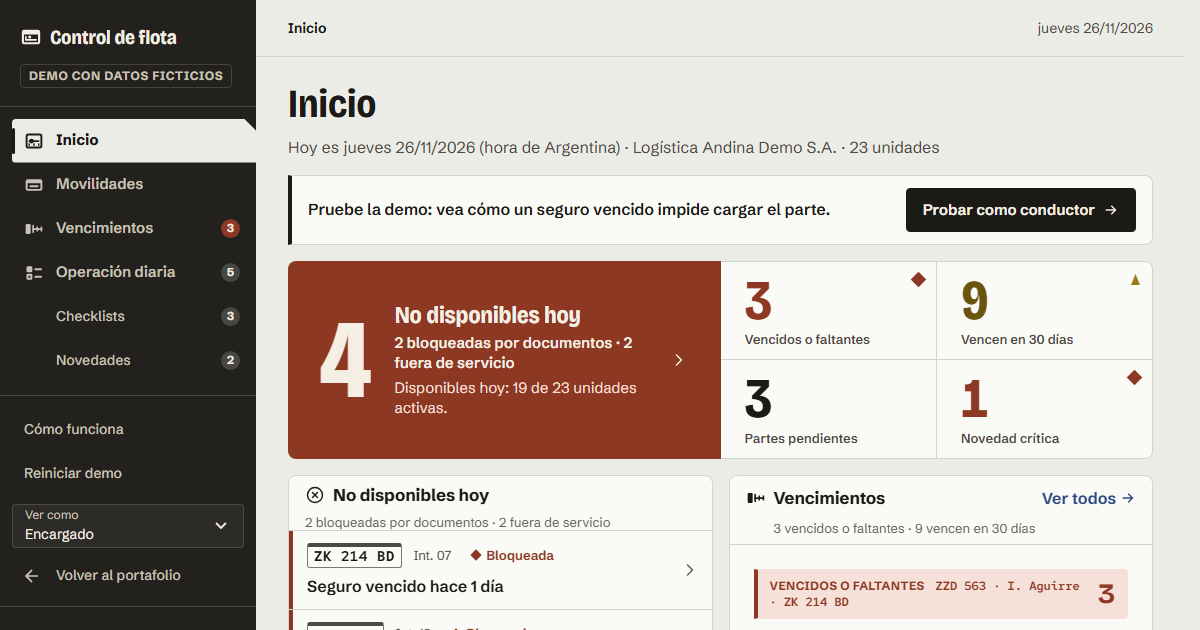
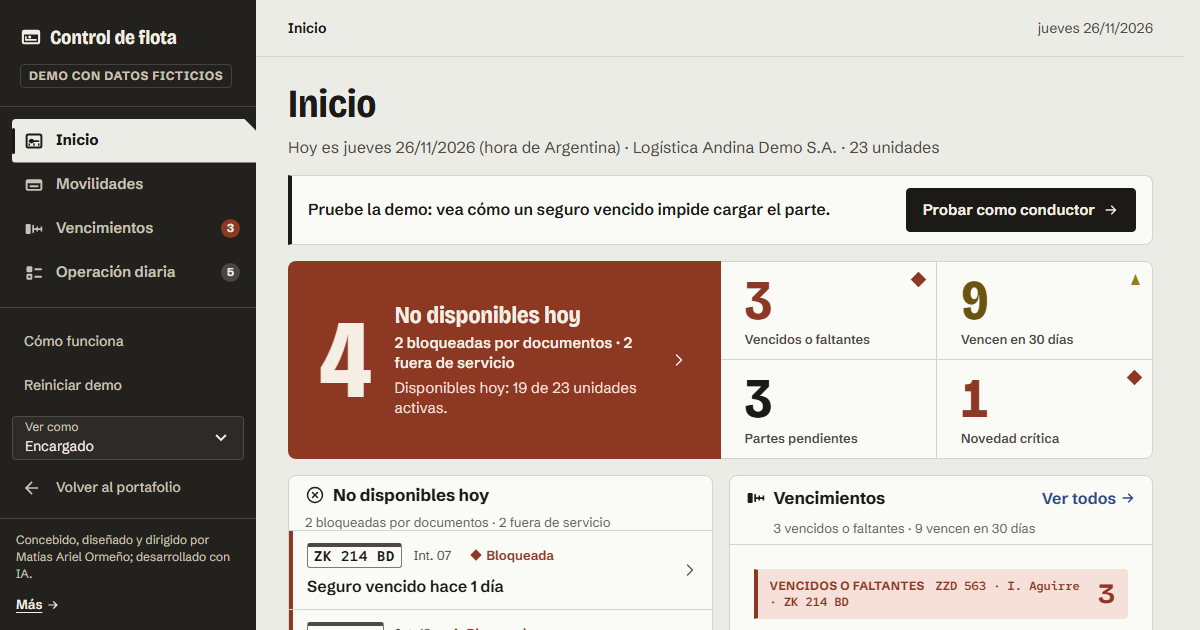
Operación diaria: una sola navegación, no tres
La crítica de reclutador marcó la navegación triplicada: el lateral, las
solapas y el título de la hoja decían lo mismo («Partes» y «Novedades»).

- Lateral: «Operación diaria» es una entrada sola, con la insignia del total.
  Las dos subentradas salen (y con ellas `subitems` y su estilo).
- Hoja bajo las solapas: la barra de título con el nombre de la solapa queda
  solo para lectores de pantalla (`Panel` con `tituloOculto`); el `h2` sigue
  nombrando la región. La solapa ya dice el nombre y la cuenta.
- Al resolver una novedad el foco vuelve a la solapa elegida (visible), no al
  título que ya no se ve.
- Las migas de escritorio no se tocan: son el camino de «Atrás».
- Capturas `docs/img/inicio.png` y `public/og-inicio.png` rehechas (mostraban
  el lateral desplegado con «Checklists»); cifras del README y registro.

Peso del JS inicial: 116.712 B a 116.489 B (tope 120.000 B).

diff --git a/src/componentes/Lateral.svelte b/src/componentes/Lateral.svelte
@@ -1,5 +1,5 @@
 <script lang="ts">
-  // Lateral oscuro del escritorio (64 rem o más): marca y rótulo «Demo», los destinos (con Operación diaria desplegada en Partes y Novedades),
+  // Lateral oscuro del escritorio (64 rem o más): marca y rótulo «Demo», los destinos (Operación diaria es uno solo: sus solapas, Partes y Novedades, se eligen dentro de la pantalla)
   // y abajo «Cómo funciona», «Reiniciar demo», «Ver como» y «Volver al portafolio». Oscuro en claro y en oscuro (es el «turno» de la marca).
   // El destino de la pantalla actual sale del contenido como una pestaña de fichero (corte en diagonal) y además lleva una marca de 3 px y negrita:
   // en oscuro el recorte solo no alcanza contraste. Sin la demo cargada (arranque o error) solo muestra la marca.
@@ -35,22 +35,7 @@
     alVerComo: () => void;
   } = $props();
 
-  /** Un destino con solapas no es «la pantalla actual» por sí mismo: la solapa activa lo es. Él queda como «dentro de la sección». */
-  function actualDe(item: ItemNavegacion): "page" | "true" | undefined {
-    return item.subitems !== undefined && item.actual !== undefined ? "true" : item.actual;
-  }
 </script>
-
-{#snippet destino(it: ItemNavegacion, sub: boolean)}
-  <a class="item" class:sub href={it.href} aria-current={sub ? it.actual : actualDe(it)}>
-    {#if it.icono !== undefined}<Icono nombre={it.icono} />{/if}
-    <span>{it.texto}{it.textoOculto ?? ""}</span>
-    {#if it.insignia !== undefined}
-      <span class="insignia" class:neutra={!it.insignia.critica} aria-hidden="true">{it.insignia.cantidad}</span>
-      <span class="solo-lectores">, {it.insignia.texto}</span>
-    {/if}
-  </a>
-{/snippet}
 
 <!-- Un `div` y no un `aside`: esto no es un complemento del contenido (landmark `complementary`) sino la navegación principal, que ya es su propio `nav`. -->
 <div class="lateral">
@@ -68,14 +53,14 @@
       <ul>
         {#each items as it (it.id)}
           <li>
-            {@render destino(it, false)}
-            {#if it.subitems !== undefined}
-              <ul>
-                {#each it.subitems as sub (sub.id)}
-                  <li>{@render destino(sub, true)}</li>
-                {/each}
-              </ul>
-            {/if}
+            <a class="item" href={it.href} aria-current={it.actual}>
+              {#if it.icono !== undefined}<Icono nombre={it.icono} />{/if}
+              <span>{it.texto}{it.textoOculto ?? ""}</span>
+              {#if it.insignia !== undefined}
+                <span class="insignia" class:neutra={!it.insignia.critica} aria-hidden="true">{it.insignia.cantidad}</span>
+                <span class="solo-lectores">, {it.insignia.texto}</span>
+              {/if}
+            </a>
           </li>
         {/each}
       </ul>
@@ -178,12 +163,6 @@
     background: var(--c-lat-hover);
     color: var(--c-lat-tx);
     text-decoration: none;
-  }
-  .item.sub {
-    min-height: var(--alto-tactil);
-    padding-left: 2.75rem;
-    font-size: 0.875rem;
-    font-weight: 500;
   }
   .item .insignia {
     margin-left: auto;

diff --git a/src/componentes/PantallaOperacion.svelte b/src/componentes/PantallaOperacion.svelte
@@ -4,8 +4,9 @@
   // y, si no tiene nada, su estado vacío.
   //  - Partes: partes sin enviar, partes sin cerrar y unidades sin parte de ayer, y al pie «Así lo carga el conductor: Abrir el parte diario» (cambia la vista a Conductor).
   //    Novedades: críticas y abiertas, cada una con «Resolver».
+  //  - La hoja no repite el nombre de su solapa: el rótulo es la solapa (con su cuenta) y el título de la hoja solo lo oyen los lectores de pantalla (`tituloOculto`).
   //  - «Resolver» abre el diálogo compartido (`<DialogosDeDocumento>`, origen `operacion`). Al guardar bien la fila desaparece: lo que pasó se dice en la barra de la hoja y el foco
-  //    va al título de la hoja (5.17). Al cancelar, el foco vuelve al botón «Resolver». «Atrás» del navegador cierra el diálogo (lo decide el estado, no esta pantalla).
+  //    va a la solapa elegida, que es lo visible más cercano (5.17). Al cancelar, el foco vuelve al botón «Resolver». «Atrás» del navegador cierra el diálogo (lo decide el estado, no esta pantalla).
   //  - Cambiar de solapa es cambiar de ruta: el foco va al `h1`, como en cualquier pantalla.
   import type { TipoAlertaOperacion } from "../lib/dominio/alertas.ts";
   import type { GrupoDeSolapa } from "../lib/estado/centro-alertas.ts";
@@ -16,7 +17,7 @@
   import { dialogos } from "./dialogos-instancia.ts";
   import Icono from "./Icono.svelte";
   import OperacionFila from "./OperacionFila.svelte";
-  import OperacionSolapas from "./OperacionSolapas.svelte";
+  import OperacionSolapas, { idDeSolapa } from "./OperacionSolapas.svelte";
   import OperacionVacio from "./OperacionVacio.svelte";
   import Panel from "./Panel.svelte";
   import { TEXTO_ALERTAS, TEXTO_NAVEGACION } from "./textos-marco.ts";
@@ -27,8 +28,6 @@
     /** «Abrir el parte diario» (al pie de Partes): abre «Ver como» con el perfil Conductor ya elegido (lo resuelve el marco). */
     alAbrirParte: () => void;
   } = $props();
-
-  const ID_TITULO = "titulo-operacion";
 
   const op = $derived(app.centroDeAlertas?.operacionDiaria ?? null);
   const solapa = $derived(app.ruta.tipo === "operacion" ? app.ruta.solapa : "partes");
@@ -55,9 +54,9 @@
   function resolver(novedadId: string): void {
     dialogos.abrirResolver(novedadId, "operacion");
   }
-  /** Tras guardar, la fila que abrió el diálogo ya no existe: el foco va al título de la hoja, donde se lee lo que pasó. */
+  /** Tras guardar, la fila que abrió el diálogo ya no existe: el foco va a la solapa elegida, justo arriba de la hoja donde se lee lo que pasó. */
   function focoDestino(): HTMLElement | null {
-    return document.getElementById(ID_TITULO);
+    return document.getElementById(idDeSolapa(solapa));
   }
 </script>
 
@@ -73,7 +72,7 @@
 
       <div class="hoja">
         <Panel
-          id={ID_TITULO}
+          tituloOculto
           titulo={actual.rotulo}
           meta={actual.id === "partes" ? TEXTO_NAVEGACION.insignias.pendientes(actual.cantidad) : TEXTO_NAVEGACION.insignias.abiertas(actual.cantidad)}
           estado={mensaje.texto}

diff --git a/src/componentes/Panel.svelte b/src/componentes/Panel.svelte
@@ -28,6 +28,7 @@
     herramientas,
     controles,
     sinRelleno = false,
+    tituloOculto = false,
     children,
   }: {
     titulo: string;
@@ -43,6 +44,11 @@
     controles?: Snippet;
     /** El interior llega hasta los bordes y sin separación entre sus hijos: para las listas de filas con riel de color (cada fila trae su propio relleno). */
     sinRelleno?: boolean;
+    /**
+     * La barra de título solo la oyen los lectores de pantalla: para un panel que ya está rotulado justo encima (la hoja de una solapa de Operación diaria),
+     * donde repetir el nombre a la vista sería una navegación más. El `h2` sigue ahí: nombra la región y ordena los encabezados. Sin `controles`.
+     */
+    tituloOculto?: boolean;
     children: Snippet;
   } = $props();
 
@@ -53,7 +59,7 @@
 </script>
 
 <section class="panel" aria-labelledby={idTitulo}>
-  <div class="barra" class:con-icono={icono !== undefined}>
+  <div class="barra" class:con-icono={icono !== undefined} class:oculta={tituloOculto}>
     {#if icono !== undefined}
       <span class="icono-titulo"><Icono nombre={icono} /></span>
     {/if}
@@ -102,6 +108,19 @@
   }
   .barra.con-icono {
     --sangria: calc(1.25rem + var(--e-2));
+  }
+  /* Misma técnica que `.solo-lectores`: fuera de la vista, dentro del árbol de accesibilidad. */
+  .barra.oculta {
+    position: absolute;
+    width: 1px;
+    height: 1px;
+    min-height: 0;
+    margin: -1px;
+    padding: 0;
+    overflow: hidden;
+    clip-path: inset(50%);
+    white-space: nowrap;
+    border: 0;
   }
   .icono-titulo {
     display: inline-flex;

diff --git a/src/App.svelte b/src/App.svelte
@@ -184,7 +184,6 @@
 
   const destinos = $derived.by(() => {
     const t = TEXTO_NAVEGACION;
-    const solapa = app.ruta.tipo === "operacion" ? app.ruta.solapa : null;
     const pendientes = cuentas.partes + cuentas.novedades;
     return {
       inicio: { id: "inicio", href: aHash({ tipo: "inicio" }), texto: NOMBRES_DE_PANTALLA.inicio, icono: "inicio", actual: actual("inicio"), insignia: app.ruta.tipo === "inicio" ? undefined : conInsignia(cuentas.noDisponibles, t.insignias.noDisponibles(cuentas.noDisponibles), true) },
@@ -198,10 +197,6 @@
         icono: "parte",
         actual: actual("operacion"),
         insignia: conInsignia(pendientes, t.insignias.pendientes(pendientes), false),
-        subitems: [
-          { id: "partes", href: aHash({ tipo: "operacion", solapa: "partes" }), texto: NOMBRES_DE_PANTALLA.operacionPartes, actual: solapa === "partes" ? "page" : undefined, insignia: conInsignia(cuentas.partes, t.insignias.pendientes(cuentas.partes), false) },
-          { id: "novedades", href: aHash({ tipo: "operacion", solapa: "novedades" }), texto: NOMBRES_DE_PANTALLA.operacionNovedades, actual: solapa === "novedades" ? "page" : undefined, insignia: conInsignia(cuentas.novedades, t.insignias.abiertas(cuentas.novedades), false) },
-        ],
       },
       hoy: { id: "hoy", href: aHash({ tipo: "conductor" }), texto: NOMBRES_DE_PANTALLA.conductor, icono: "parte", actual: actual("hoy") },
       partes: { id: "partes", href: aHash({ tipo: "mis-partes" }), texto: NOMBRES_DE_PANTALLA.conductorPartes, icono: "partes", actual: actual("partes") },

diff --git a/src/componentes/OperacionSolapas.svelte b/src/componentes/OperacionSolapas.svelte
@@ -1,3 +1,10 @@
+<script lang="ts" module>
+  /** El `id` del enlace de cada solapa: la pantalla le devuelve el foco ahí cuando la fila que lo tenía desaparece (resolver una novedad). */
+  export function idDeSolapa(id: string): string {
+    return `solapa-${id}`;
+  }
+</script>
+
 <script lang="ts">
   // Las dos solapas de Operación diaria (Partes y Novedades): son ENLACES (cada una es una ruta, `#/operacion/partes` y `#/operacion/novedades`), no pestañas con roles de
   // `tablist`: la elegida lleva `aria-current="page"`, Tab recorre las dos y Enter navega. Pestañas de archivo como las de la ficha: la elegida es del color de la hoja, lleva una barra
@@ -27,7 +34,7 @@
   <ul class="solapas">
     {#each solapas as s (s.id)}
       <li>
-        <a class="solapa" href={s.href} aria-current={activa === s.id ? "page" : undefined}>
+        <a class="solapa" id={idDeSolapa(s.id)} href={s.href} aria-current={activa === s.id ? "page" : undefined}>
           {s.rotulo}
           <span class="n" class:critica={s.critica} aria-hidden="true">{s.cantidad}</span>
           <span class="solo-lectores">, {cuenta(s)}</span>

diff --git a/src/componentes/BarraInferior.svelte b/src/componentes/BarraInferior.svelte
@@ -13,8 +13,6 @@
     insignia?: { cantidad: number; texto: string; critica: boolean };
     /** `page` en la pantalla de la sección; `true` si la pantalla actual está dentro de la sección pero no es su inicio (la ficha, el parte). */
     actual?: "page" | "true";
-    /** Solo los usa el lateral (las solapas de Operación diaria). */
-    subitems?: ItemNavegacion[];
   }
 </script>
 

diff --git a/docs/pantallas.md b/docs/pantallas.md
@@ -6,7 +6,7 @@ Detalle de lo que se puede hacer en cada pantalla. El resumen para quien llega p
 
 ## Navegación
 
-- **Encargado:** barra inferior (celular y tableta) o lateral oscuro (desde 64 rem) con Inicio, Movilidades, Vencimientos y Operación diaria (que se despliega en Partes y Novedades); «Más» en el celular. Las insignias de la navegación repiten las cifras de Inicio (no disponibles hoy, vencidos o faltantes) y de Operación diaria (pendientes); la de Inicio se oculta mientras se está en Inicio, donde la cifra grande ya lo dice.
+- **Encargado:** barra inferior (celular y tableta) o lateral oscuro (desde 64 rem) con Inicio, Movilidades, Vencimientos y Operación diaria (una sola entrada; sus dos solapas, Partes y Novedades, se eligen dentro de la pantalla); «Más» en el celular. Las insignias de la navegación repiten las cifras de Inicio (no disponibles hoy, vencidos o faltantes) y de Operación diaria (pendientes); la de Inicio se oculta mientras se está en Inicio, donde la cifra grande ya lo dice.
 - **Entrada al recorrido:** mientras haya un conductor con el parte trabado por un seguro vencido, Inicio muestra la franja «Probar como conductor», que abre «Ver como» con ese conductor ya elegido.
 - **Conductor:** Hoy, Mis partes y Más.
 - «Atrás» (arriba a la izquierda en el celular, en la ficha y el parte) vuelve a la pantalla de origen; en Movilidades conserva el filtro y la búsqueda que tenía. En escritorio, las migas hacen lo mismo.
@@ -20,7 +20,7 @@ Detalle de lo que se puede hacer en cada pantalla. El resumen para quien llega p
 | Inicio | Encargado | Ver cuántas unidades no están disponibles hoy (bloqueadas por documentos o fuera de servicio) y qué conductores no pueden manejar hoy (sin licencia vigente), cuatro cifras con su destino (vencidos o faltantes, vencen en 30 días, partes pendientes, novedad crítica), la regla de vencimientos de 0 a 30 días y un resumen de la operación diaria. Renovar o cargar un documento, incluida una licencia, desde la propia fila o desde un punto de la regla. |
 | Movilidades | Encargado | Buscar por patente o número interno, filtrar por estado (disponibles, no disponibles hoy, bloqueadas por documentos, fuera de servicio, de baja) y por proyecto, ordenar y agregar una unidad nueva. Cada fila muestra el último parte («En uso» o «Sin cerrar», según el caso), el próximo vencimiento y marca al conductor sin licencia vigente. |
 | Vencimientos | Encargado | Ver todos los documentos vencidos, faltantes o por vencer en la regla de 0 a 30 días y en un panel por grupo, con filtros por tramo (7, 15 y 30 días) y la acción de cada fila: Renovar o Cargar. |
-| Operación diaria | Encargado | **Partes:** partes sin enviar, partes sin cerrar y unidades sin parte de ayer. **Novedades:** críticas y abiertas, cada una con «Resolver». |
+| Operación diaria | Encargado | Dos solapas, cada una con su cuenta (el nombre de la solapa no se repite como título de la hoja). **Partes:** partes sin enviar, partes sin cerrar y unidades sin parte de ayer. **Novedades:** críticas y abiertas, cada una con «Resolver». |
 | Ficha de la unidad | Encargado | Ver documentos, novedades, kilometraje (con las salidas en curso) e historial (la revisión y el cierre de cada parte). Renovar documentos, resolver novedades, poner la unidad fuera de servicio o devolverla a servicio, corregir el kilometraje, cambiar la asignación y dar de baja. En el celular, en solapas; abre en la que explica el bloqueo. |
 | Hoy | Conductor | Ver en qué punto está el parte de hoy (sin empezar, borrador, en uso, cerrado o sin salida), los partes sin cerrar, el vencimiento de la propia licencia, el aviso de que un documento de su unidad vence hoy o en los próximos días («La revisión técnica vence hoy») y los últimos partes. Si la licencia o la documentación de la unidad no están vigentes, el aviso de bloqueo reemplaza al botón de empezar la revisión. Elegir otra unidad. |
 | Mis partes | Conductor | Los últimos cinco partes cerrados, el más nuevo primero; cada uno abre el parte en lectura. |

diff --git a/docs/registro.md b/docs/registro.md
@@ -1484,3 +1484,22 @@ Nueve commits, uno por punto de la crítica (importantes 1 a 5 y menores 6 a 9);
 **No se hizo.** Renombrar «Checklists» ni la navegación triplicada (después del lanzamiento); el texto del README; Safari, Firefox, lector de pantalla ni pantalla táctil reales.
 
 **Verificación.** `npm run check`: 0 errores y 0 avisos (376 archivos); `npm test`: 1.940 pruebas en 77 archivos; `npm run buscar`: sin hallazgos (9 reglas, 249 archivos); `npm run contraste`: 244 mediciones, 0 fallan, 1 justa (`peligro-hover`, la de antes); `npm run build` sin errores; `npm run peso`: JS inicial 116.508 → **116.725 B** (tope 120.000, margen 3.275) y total 143.241 B (sobre el aviso, como antes). Chromium con Playwright contra `npm run servir` (CSP real): 84 pantallas (9 del Encargado y 5 del Conductor × 360, 390 y 1.440 px × claro y oscuro) sin desborde horizontal y con la consola sin errores ni violaciones de CSP; se miraron además las capturas de Inicio, Movilidades, Vencimientos, ficha, Hoy y parte a 360, 390 y 1.440 px en claro y oscuro.
+
+## 26/11/2026 (rama `interfaz-app`) — Los dos menores de la crítica que quedaban para después del lanzamiento (maquetador, IA)
+
+**1. «Checklists» pasa a «Partes».** La crítica pedía ese nombre. Coincide con lo que la solapa contiene (partes sin enviar, partes sin cerrar y unidades sin parte de ayer) y con «Mis partes» del conductor. Cambia en la solapa, el título de la pestaña, las migas, la columna «sección» de Inicio, los estados vacíos y los documentos. La dirección pasa a `#/operacion/partes`; `#/operacion/checklists` se sigue entendiendo y se reescribe a la nueva sin apilar entradas (prueba en `enrutador.test.ts` y en `app-estado.test.ts`). Los identificadores internos de la solapa también pasaron a `partes`; «checklist» queda donde habla de los puntos de revisión del parte.
+
+**2. Navegación triplicada.** En escritorio, Operación diaria repetía «Checklists / Novedades» cuatro veces: subentradas del lateral, migas, solapas y título de la hoja; en el celular, dos (solapas y título de la hoja, uno sobre el otro).
+
+| | Antes | Después |
+| --- | --- | --- |
+| Lateral | «Operación diaria» con dos subentradas, siempre desplegadas | Una sola entrada «Operación diaria», con la insignia del total |
+| Hoja bajo las solapas | Barra de título visible con el mismo nombre que la solapa y su cuenta | Misma barra, solo para lectores de pantalla (`Panel` con `tituloOculto`): el `h2` sigue nombrando la región |
+| Foco tras «Resolver» | Al título de la hoja | A la solapa elegida (`id="solapa-…"`), que es lo visible más cercano |
+| Migas y solapas | sin cambio | sin cambio |
+
+**No se hizo.** Las migas de escritorio («Operación diaria / Partes») siguen repitiendo el nombre de la solapa: son el camino de «Atrás» y la crítica no las nombró. Quitarlas es una decisión aparte. Safari, Firefox, lector de pantalla ni pantalla táctil reales.
+
+**Capturas.** `docs/img/inicio.png` y `public/og-inicio.png` mostraban «Checklists» en el lateral: rehechas con el `dist/` servido con la CSP real (1280 × 900 y 1200 × 630).
+
+**Verificación.** `npm run check`: 0 errores y 0 avisos (376 archivos); `npm test` y `npm run test:tz`: 1.944 pruebas en 77 archivos (4 nuevas, de la dirección vieja); `npm run buscar`: sin hallazgos (9 reglas, 249 archivos); `npm run contraste`: 244 mediciones, 0 fallan; `npm run build` sin errores; `npm run peso`: JS inicial 116.712 → **116.489 B** (tope 120.000, margen 3.511) y total 143.221 → 143.001 B; `npm audit`: 0 vulnerabilidades. Chromium con Playwright contra `npm run servir`: Operación diaria (Partes, Novedades y la dirección vieja) a 1280 y 360 px en claro y oscuro, sin desborde horizontal y con la consola sin errores.

diff --git a/README.md b/README.md
@@ -109,15 +109,15 @@ Cifras medidas el 26/11/2026 en una computadora local:
 
 | Comprobación | Comando | Resultado |
 | --- | --- | --- |
-| Pruebas automáticas | `npm test` | 1.940 pruebas en 77 archivos, todas pasan |
-| Las mismas en tres zonas horarias | `npm run test:tz` | 1.940 pruebas en UTC, Asia/Tokio y América/Los Ángeles, todas pasan |
+| Pruebas automáticas | `npm test` | 1.944 pruebas en 77 archivos, todas pasan |
+| Las mismas en tres zonas horarias | `npm run test:tz` | 1.944 pruebas en UTC, Asia/Tokio y América/Los Ángeles, todas pasan |
 | Tipos | `npm run check` | 0 errores y 0 avisos en 376 archivos |
 | Contraste de la paleta | `npm run contraste` | 244 mediciones, 0 fallan |
 | Búsqueda de lo prohibido | `npm run buscar` | Sin hallazgos (9 reglas y 249 archivos con el archivo local de términos; 8 reglas sin él) |
-| Tamaño del JavaScript | `npm run peso` | 116.712 B de carga inicial (tope 120.000 B) y 143.221 B en total, con gzip |
+| Tamaño del JavaScript | `npm run peso` | 116.489 B de carga inicial (tope 120.000 B) y 143.001 B en total, con gzip |
 | Dependencias | `npm audit` | 0 vulnerabilidades |
 
-**Qué son esas 1.940 pruebas.** Unas 90 (89, en los 6 archivos `tests/textos*.test.ts`) fijan textos de la interfaz: mensajes de error, nombres de pantallas y frases con cifras; existen para que un cambio de redacción o de umbral no deje a la pantalla diciendo otra cosa que las reglas. Las otras 1.851 prueban reglas de dominio, comandos, estado, persistencia, el generador de datos y las vistas derivadas; algunas de ellas también comprueban una frase que se muestra, y esas no se separaron de las demás.
+**Qué son esas 1.944 pruebas.** Unas 90 (89, en los 6 archivos `tests/textos*.test.ts`) fijan textos de la interfaz: mensajes de error, nombres de pantallas y frases con cifras; existen para que un cambio de redacción o de umbral no deje a la pantalla diciendo otra cosa que las reglas. Las otras 1.855 prueban reglas de dominio, comandos, estado, persistencia, el generador de datos y las vistas derivadas; algunas de ellas también comprueban una frase que se muestra, y esas no se separaron de las demás.
 
 También se miró la demo en un navegador (Chromium con Playwright, contra la compilación servida con la política de contenido real), en claro y oscuro, a 360 y 1280 px: sin desbordes horizontales y sin mensajes en la consola. Eso no se puede reproducir con un comando. La interfaz actual tuvo el 25/11/2026 una revisión de código, pruebas destructivas en Chromium y una auditoría de accesibilidad con mediciones propias (agentes de IA; no se corrió axe-core en la interfaz nueva), y lo que encontraron se corrigió y se volvió a mirar. No se probó en un Safari real, ni en Firefox, ni con un lector de pantalla (detalle y lo que no se probó: [`docs/limites.md`](docs/limites.md), sección 3). La integración continua ([GitHub Actions](https://github.com/aslow01/demo-control-flota/actions/workflows/ci.yml), `.github/workflows/ci.yml`) corre en cada `push` y en cada solicitud de cambios del repositorio público: tipos, pruebas en tres zonas horarias, compilación, peso, búsqueda de lo prohibido y `npm audit`. Las últimas ejecuciones sobre `main` que se consultaron el 26/11/2026 pasaron; las cifras de esta sección salen de la computadora local, no de ella.
 

diff --git a/docs/diseno-ui.md b/docs/diseno-ui.md
@@ -243,7 +243,7 @@ Cifras (kilómetros, litros, días, conteos, fechas en tablas): `tabular-nums` *
 
 ### 4.1 Escritorio (desde 64 rem): lateral oscuro y barra de migas
 
-- **Lateral** fijo a la izquierda, de `16rem`, oscuro en claro y en oscuro. Arriba: la marca (ícono y «Control de flota») y la etiqueta «Demo con datos ficticios». En el medio, los destinos: encargado, Inicio, Movilidades, Vencimientos y Operación diaria (desplegada en Partes y Novedades); conductor, Hoy y Mis partes. Con insignias (4.3). Abajo: «Cómo funciona», «Reiniciar demo», «Ver como» (el perfil de ahora, con un control para cambiarlo), «Volver al portafolio», la autoría («Concebido, diseñado y dirigido por Matías Ariel Ormeño; desarrollado con IA.») y «Más».
+- **Lateral** fijo a la izquierda, de `16rem`, oscuro en claro y en oscuro. Arriba: la marca (ícono y «Control de flota») y la etiqueta «Demo con datos ficticios». En el medio, los destinos: encargado, Inicio, Movilidades, Vencimientos y Operación diaria (un solo destino: Partes y Novedades se eligen con las solapas de la pantalla, no en el lateral; decisión del 26/11/2026); conductor, Hoy y Mis partes. Con insignias (4.3). Abajo: «Cómo funciona», «Reiniciar demo», «Ver como» (el perfil de ahora, con un control para cambiarlo), «Volver al portafolio», la autoría («Concebido, diseñado y dirigido por Matías Ariel Ormeño; desarrollado con IA.») y «Más».
 - El destino de la pantalla actual sale del contenido como una pestaña de fichero (corte en diagonal) y lleva además una marca de 3 px y negrita: en oscuro el recorte solo no alcanza contraste. `aria-current="page"`.
 - **Barra de migas** fija arriba del contenido: las migas a la izquierda (el último tramo es la pantalla de ahora, sin enlace; los anteriores, enlaces) y la fecha a la derecha. Las pantallas del lateral llevan un solo tramo.
 
@@ -254,7 +254,7 @@ Cifras (kilómetros, litros, días, conteos, fechas en tablas): `tabular-nums` *
 
 ### 4.3 Insignias
 
-Las del lateral y la barra inferior salen de las mismas cifras de Inicio y de Operación diaria (`app.centroDeAlertas`), no de un cálculo aparte: Inicio, no disponibles hoy; Vencimientos, vencidos o faltantes; Operación diaria, pendientes (con su desglose en Partes y Novedades). Las dos primeras son cobre (críticas); las de Operación, grafito. Sin insignia si es 0. El nombre accesible de la insignia dice la cuenta con palabras («4 no disponibles hoy»); `white-space: nowrap` en la insignia y, con el texto al 200 %, la insignia baja de renglón en lugar de ensanchar la página.
+Las del lateral y la barra inferior salen de las mismas cifras de Inicio y de Operación diaria (`app.centroDeAlertas`), no de un cálculo aparte: Inicio, no disponibles hoy; Vencimientos, vencidos o faltantes; Operación diaria, pendientes (el total de las dos solapas, Partes y Novedades, que llevan su propia cuenta). Las dos primeras son cobre (críticas); las de Operación, grafito. Sin insignia si es 0. El nombre accesible de la insignia dice la cuenta con palabras («4 no disponibles hoy»); `white-space: nowrap` en la insignia y, con el texto al 200 %, la insignia baja de renglón en lugar de ensanchar la página.
 
 ### 4.4 Avisos globales
 
